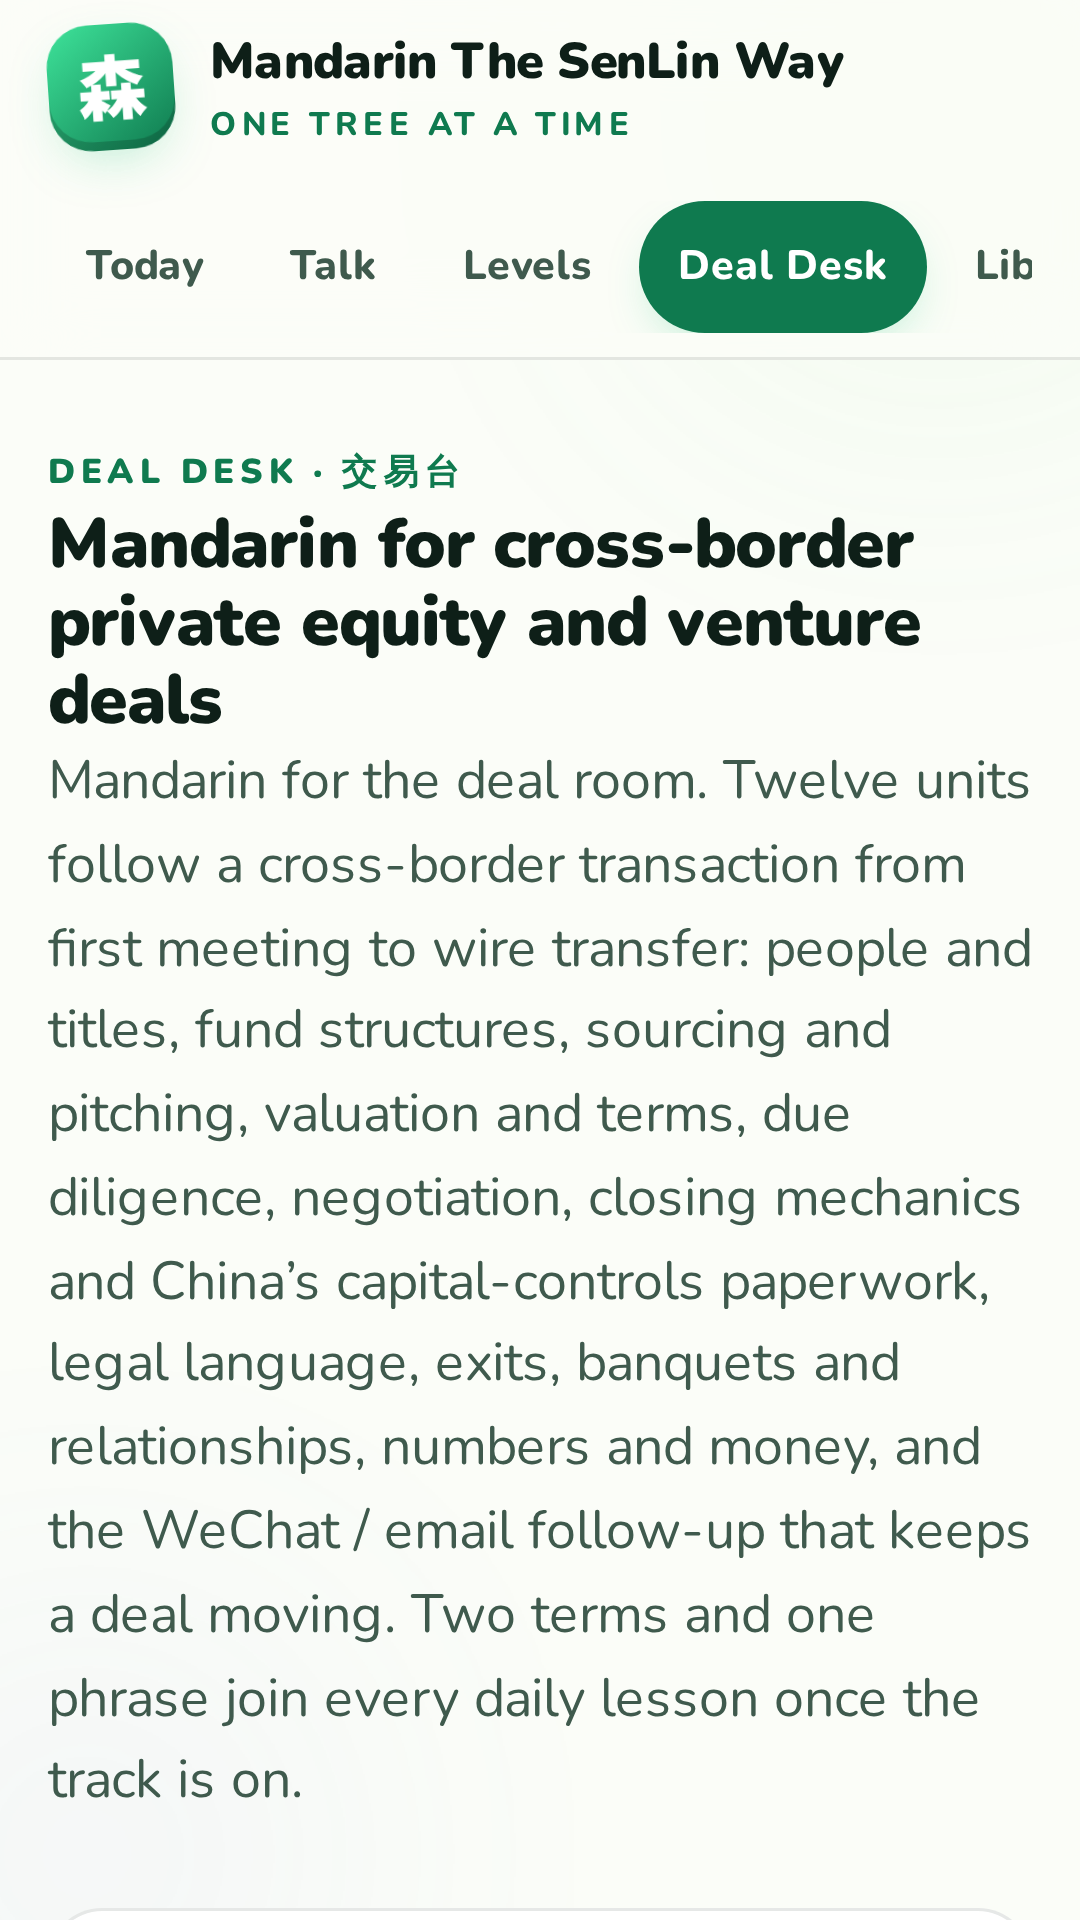
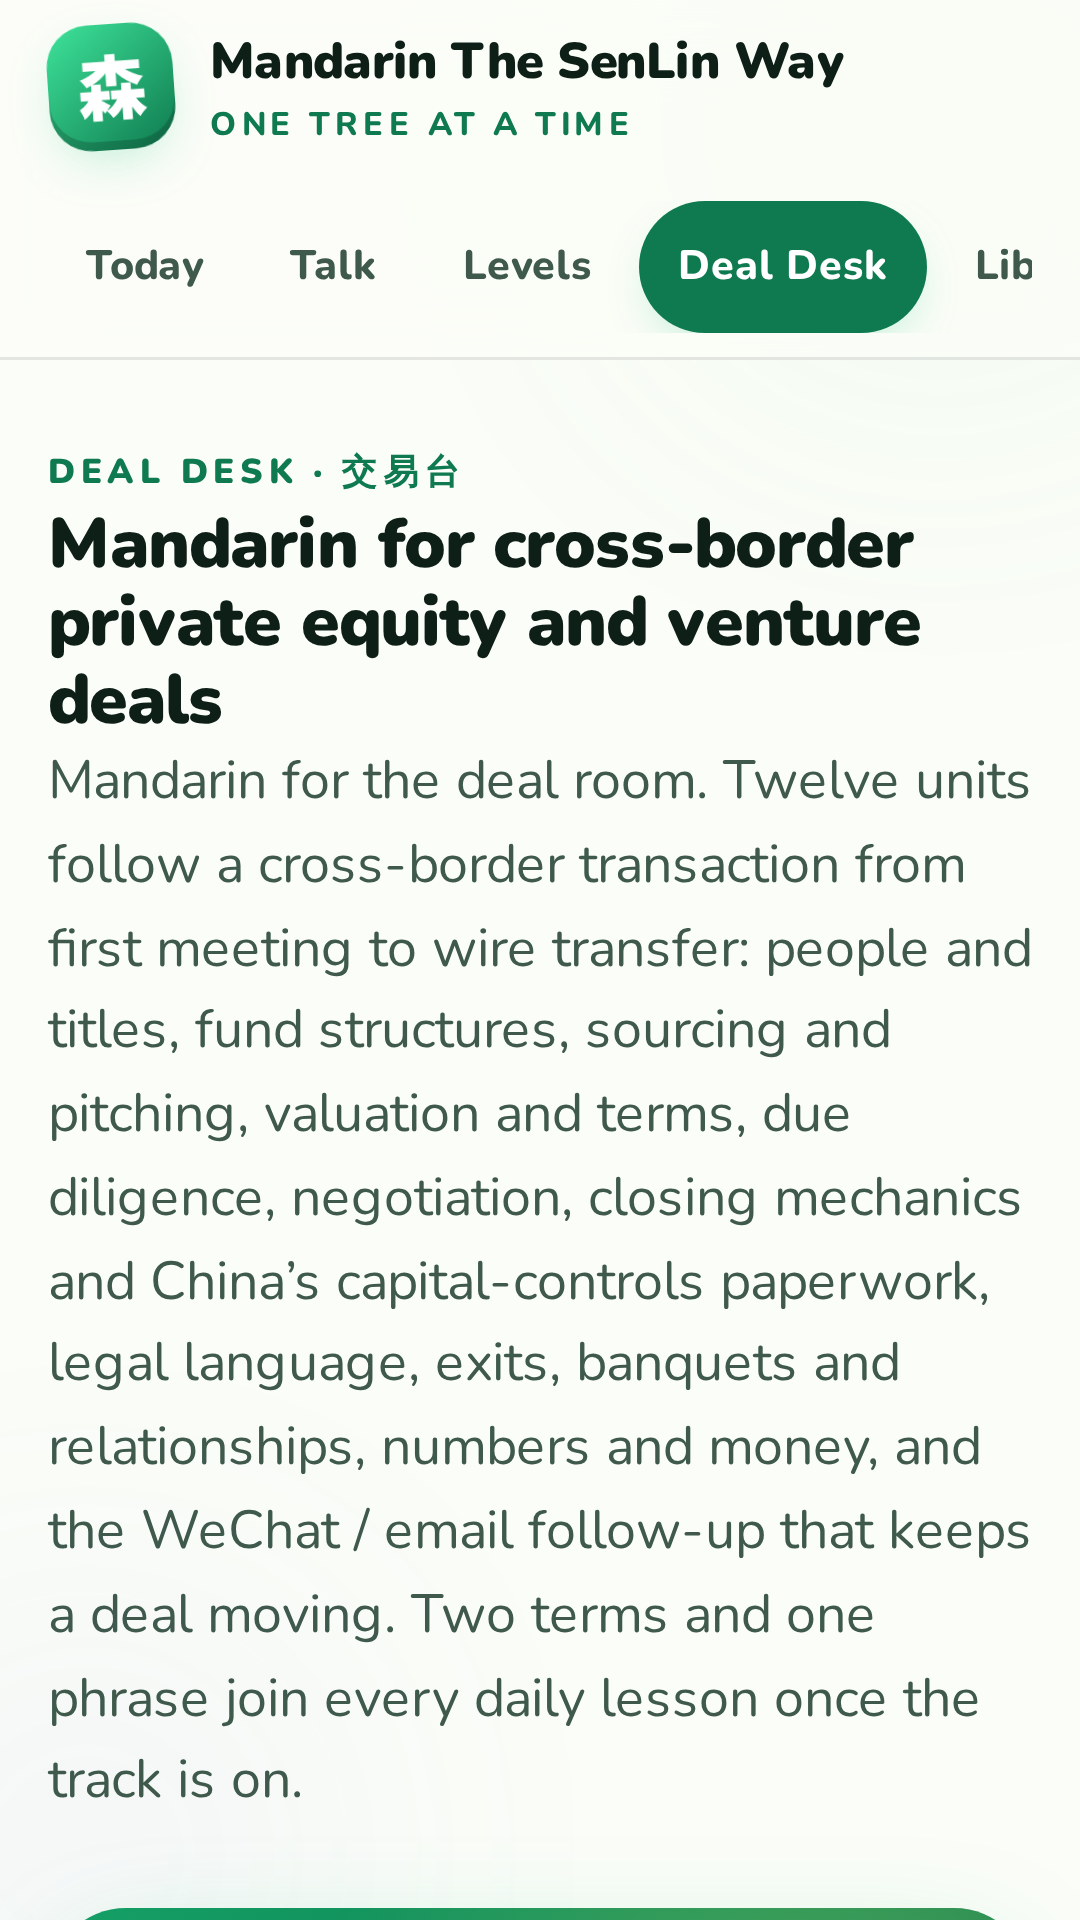
Store screenshots show a signed-in Pro learner two weeks in
Claude-Session: https://claude.ai/code/session_018XZgs61NXsqp2Ef1rt5yRF

Changed region(s): [[0.0917, 0.9688, 0.9167, 1.0]]

diff --git a/tools/icons.js b/tools/icons.js
@@ -251,6 +251,25 @@ async function renderScreens(base) {
   try {
     const ctx = await browser.newContext({ viewport: { width: 360, height: 640 }, deviceScaleFactor: 3, isMobile: true, hasTouch: true, colorScheme: 'light', locale: 'en-GB' });
     await routeFontsThroughCurl(ctx);
+    // Store shots show a signed-in Pro learner a couple of weeks in, with the API answered locally (no network in CI).
+    await ctx.route(/\/v1\//, route => {
+      const u = route.request().url();
+      const body = /\/v1\/health/.test(u) ? { ok: true, ready: true, providers: { ai: true, tts: true, stt: true, email: true } }
+        : /\/v1\/entitlement/.test(u) ? { plan: 'pro', expiresAt: null, features: { ai: true, hsk3plus: true, dealDesk: true } }
+        : /\/v1\/me/.test(u) ? { user: { id: 'demo', email: 'you@example.com', plan: 'pro' }, plan: 'pro' }
+        : /\/v1\/sync\/pull/.test(u) ? { version: 0, data: null }
+        : { ok: true };
+      route.fulfill({ status: 200, contentType: 'application/json', body: JSON.stringify(body) });
+    });
+    await ctx.addInitScript(() => {
+      try {
+        const d = new Date(); d.setDate(d.getDate() - 14);
+        localStorage.setItem('senlin.settings', JSON.stringify({ startDate: d.toISOString().slice(0, 10) }));
+        const completed = {}; for (let i = 1; i <= 14; i++) completed[i] = new Date(Date.now() - (15 - i) * 864e5).toISOString().slice(0, 10);
+        localStorage.setItem('senlin.progress', JSON.stringify({ completed, streak: 14, reviews: { total: 42, good: 37 }, quiz: { total: 60, right: 54 } }));
+        localStorage.setItem('senlin.auth', JSON.stringify({ token: 'demo', user: { id: 'demo', email: 'you@example.com', plan: 'pro' }, plan: 'pro', expiresAt: null }));
+      } catch (e) { /* ignore */ }
+    });
     const page = await ctx.newPage();
     const shots = [['', 'today'], ['levels', 'levels'], ['business', 'business'], ['talk', 'talk']];
     for (const [route, name] of shots) {
